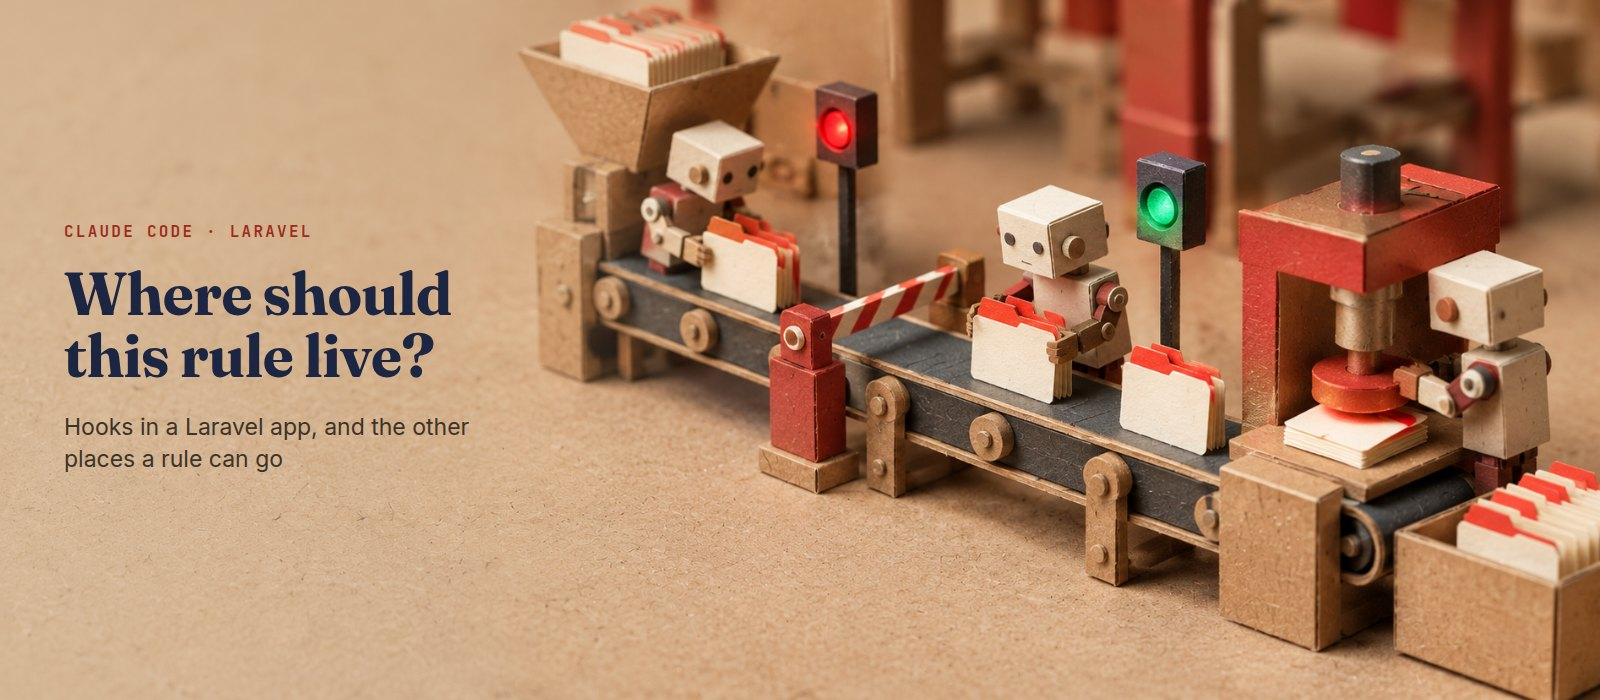
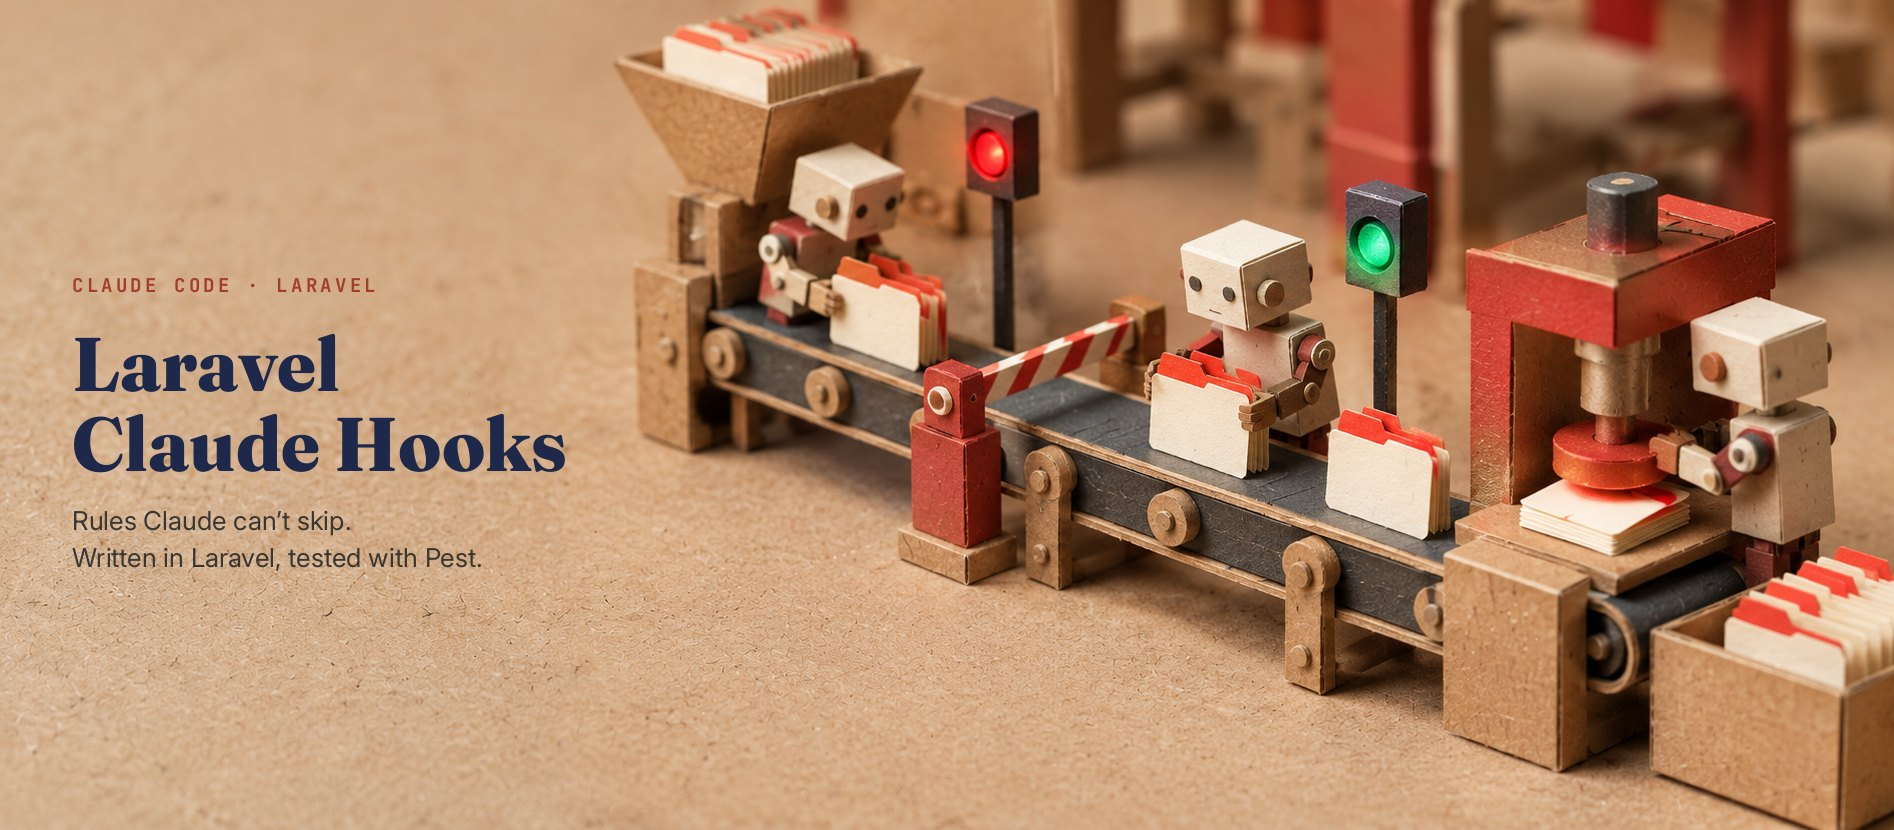
Package cover

diff --git a/README.md b/README.md
@@ -1,4 +1,4 @@
-![Laravel Claude Hooks: where should this rule live? Hooks in a Laravel app, and the other places a rule can go](art/cover.jpg)
+![Laravel Claude Hooks: rules Claude can't skip, written in Laravel and tested with Pest](art/cover.jpg)
 
 # Laravel Claude Hooks
 
